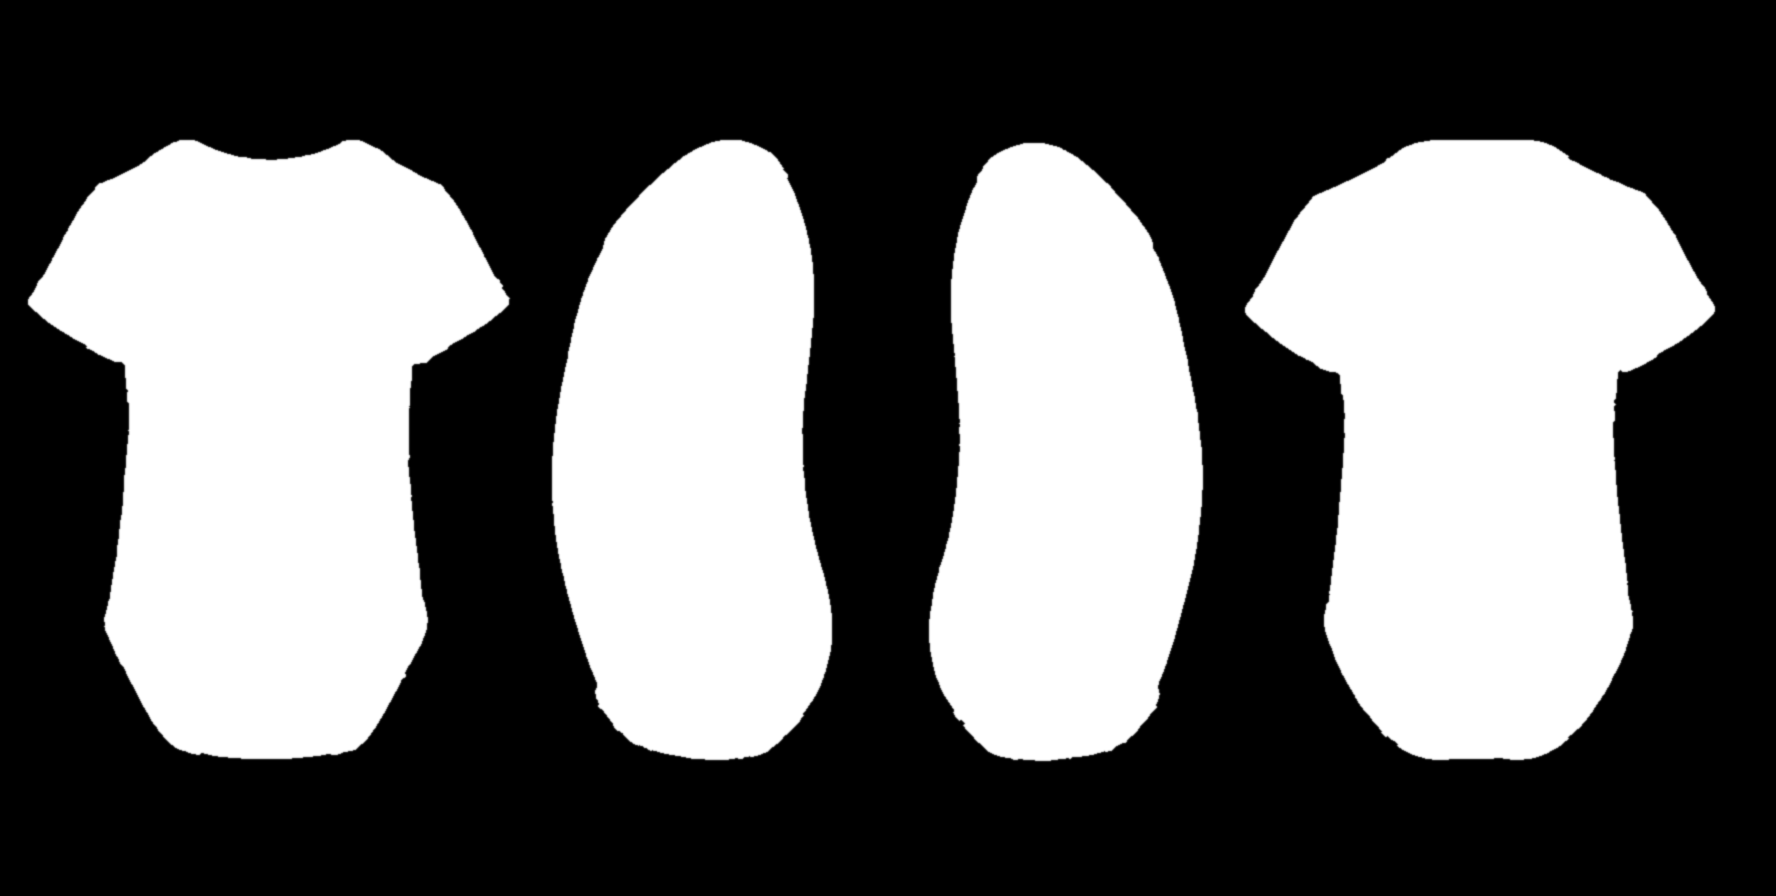
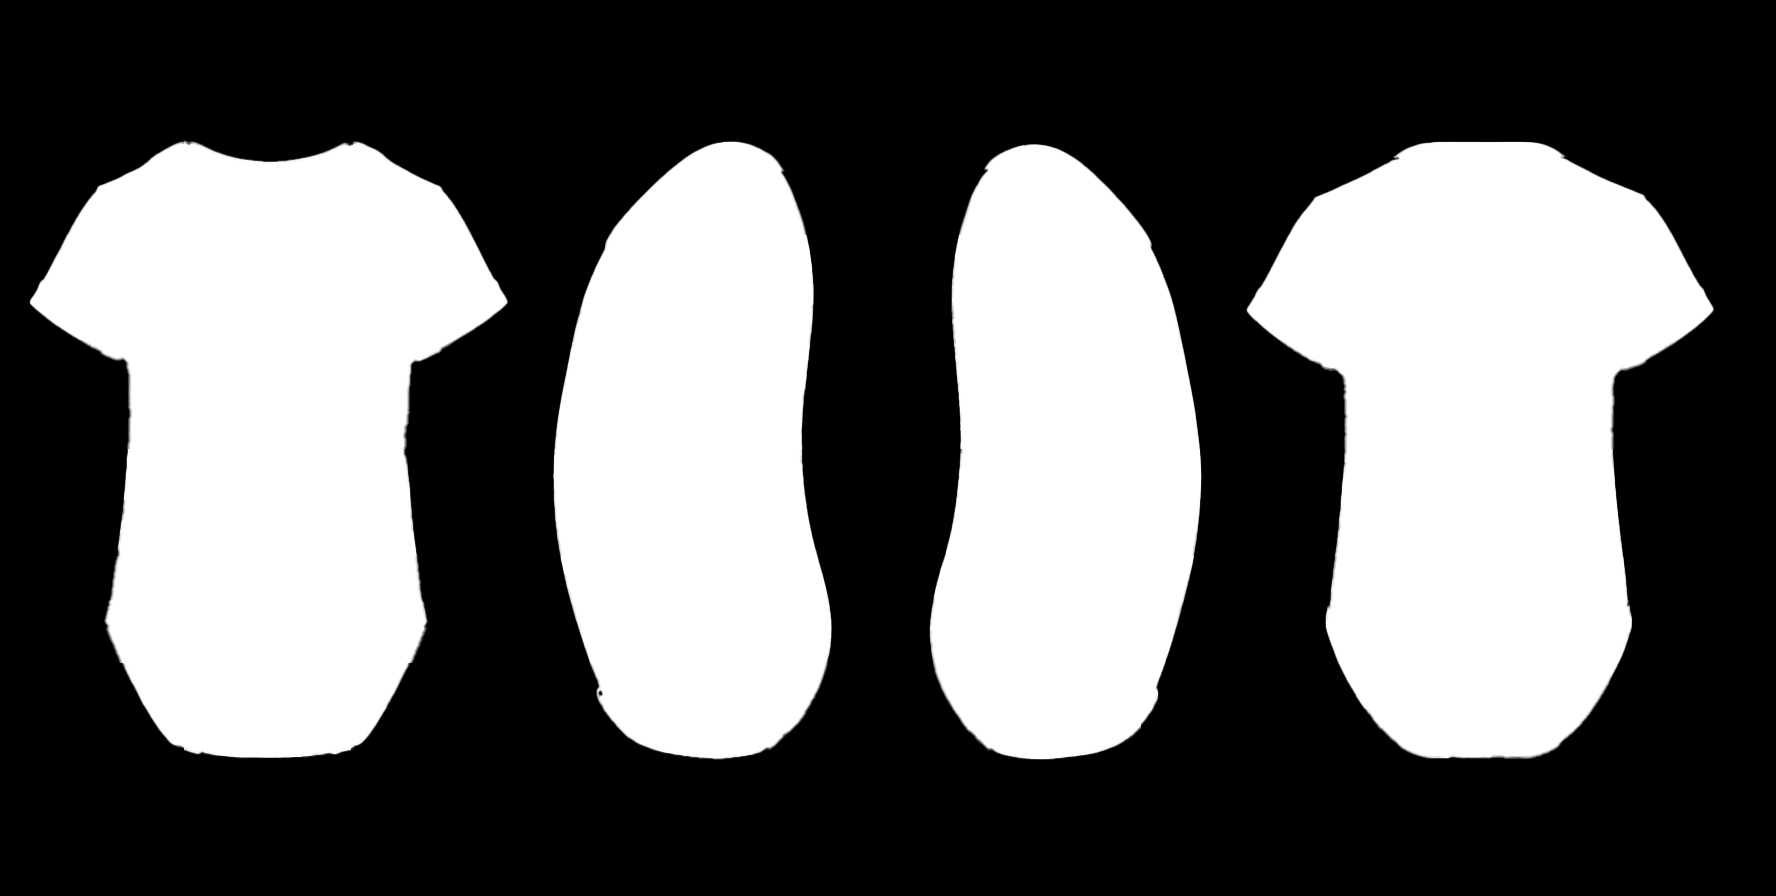
Konfigurator: neue freigestellte Fotos für T-Shirt, Sportshirt, Arbeitsjacke, Babybody und Tasse [hochladen]
Ohne Bodenschatten, Maske direkt aus der Transparenz; Werkzeug aus_png.py
übernimmt freigestellte PNGs. Bilder mit Versionsnummer, damit Browser die
neuen laden.

Claude-Session: https://claude.ai/code/session_01VgMNm2JQ5rEuMZ6iNr5NQ8

diff --git a/website/konfigurator/konfig.js b/website/konfigurator/konfig.js
@@ -63,6 +63,7 @@
   };
 
   /* ---------- Farben ---------- */
+  const IMGV = 2;   // bei neuen Produktfotos hochzählen (Browser-Zwischenspeicher)
   const COLORS = {
     weiss: ['Weiß', 'Hvid', 'White', '#ffffff'], natur: ['Natur', 'Natur', 'Natural', '#efe6d2'], sand: ['Sand', 'Sand', 'Sand', '#d6c4a1'],
     grau: ['Grau meliert', 'Gråmeleret', 'Heather grey', '#a3a5a8'], anthrazit: ['Anthrazit', 'Antracit', 'Charcoal', '#3c3e42'], schwarz: ['Schwarz', 'Sort', 'Black', '#151515'],
@@ -323,7 +324,7 @@
       const t = T(), p = S.prod;
       secProd.replaceChildren(el('h4', {}, t.product, el('b', {}, L(p.name, lang))), el('div', { class: 'wfk-prods' },
         PRODUCTS.map((q) => el('button', { type: 'button', class: q.id === p.id ? 'on' : '', title: L(q.name, lang), onclick: () => choose(q.id) },
-          el('img', { alt: '', src: base + 'img/' + q.id + '-t.jpg', loading: 'lazy' }), L(q.name, lang)))));
+          el('img', { alt: '', src: base + 'img/' + q.id + '-t.jpg?v=' + IMGV, loading: 'lazy' }), L(q.name, lang)))));
       const cname = COLORS[S.color] ? L(COLORS[S.color], lang) : S.hex.toUpperCase();
       secColor.replaceChildren(el('h4', {}, t.color, el('b', {}, cname)), el('div', { class: 'wfk-sw' },
         p.colors.map((c) => el('button', { type: 'button', title: L(COLORS[c], lang), 'aria-label': L(COLORS[c], lang), class: c === S.color ? 'on' : '', style: 'background:' + COLORS[c][3], onclick: () => setColor(c) }))),
@@ -383,7 +384,7 @@
       stage.classList.add('loading');
       try {
         if (!prepared.has(p.id)) {
-          const [img, mask] = await Promise.all([loadImg(base + 'img/' + p.id + '.jpg'), loadImg(base + 'img/' + p.id + '-m.png')]);
+          const [img, mask] = await Promise.all([loadImg(base + 'img/' + p.id + '.jpg?v=' + IMGV), loadImg(base + 'img/' + p.id + '-m.png?v=' + IMGV)]);
           await new Promise((r) => setTimeout(r, 16));
           prepared.set(p.id, prepare(img, mask, false, p.views === 'mug' ? 3 : 4));
         }

diff --git a/website/index.html b/website/index.html
@@ -3889,9 +3889,9 @@ function kfSet(mode) {
     window.scrollTo({ top: el.getBoundingClientRect().top + window.scrollY - off, behavior: 'smooth' }); };
   requestAnimationFrame(jump);
   if (mode !== 'tool' || kfLoad) return;
-  if (!document.getElementById('kfCss')) { const l = document.createElement('link'); l.id = 'kfCss'; l.rel = 'stylesheet'; l.href = 'konfigurator/konfig.css?v=10'; document.head.append(l); }
+  if (!document.getElementById('kfCss')) { const l = document.createElement('link'); l.id = 'kfCss'; l.rel = 'stylesheet'; l.href = 'konfigurator/konfig.css?v=11'; document.head.append(l); }
   kfLoad = (async () => {
-    if (!window.WFKonfig) await kfScript('konfigurator/konfig.js?v=10');
+    if (!window.WFKonfig) await kfScript('konfigurator/konfig.js?v=11');
     const holder = document.createElement('div');
     box.replaceChildren(holder);
     window.__wfK = await WFKonfig.mount(holder, { mode: 'kunde', lang: currentLang, base: 'konfigurator/', onChange: (k) => {

diff --git a/auftraege/assets/konfig-app.js b/auftraege/assets/konfig-app.js
@@ -12,8 +12,8 @@ let loading = null;
 function loadKonfig() {
   if (window.WFKonfig) return Promise.resolve();
   if (loading) return loading;
-  if (!document.getElementById('wfkCss')) document.head.append(h('link', { id: 'wfkCss', rel: 'stylesheet', href: KBASE + 'konfig.css?v=10' }));
-  loading = new Promise((ok, bad) => { const s = document.createElement('script'); s.src = KBASE + 'konfig.js?v=10'; s.onload = ok; s.onerror = () => { loading = null; bad(new Error(t('konfig_err'))); }; document.head.append(s); });
+  if (!document.getElementById('wfkCss')) document.head.append(h('link', { id: 'wfkCss', rel: 'stylesheet', href: KBASE + 'konfig.css?v=11' }));
+  loading = new Promise((ok, bad) => { const s = document.createElement('script'); s.src = KBASE + 'konfig.js?v=11'; s.onload = ok; s.onerror = () => { loading = null; bad(new Error(t('konfig_err'))); }; document.head.append(s); });
   return loading;
 }
 

diff --git a/tools/konfigurator/aus_png.py b/tools/konfigurator/aus_png.py
@@ -1,0 +1,18 @@
+"""Fertig freigestelltes PNG (transparenter Hintergrund, 1776 x 896) für den Konfigurator übernehmen.
+
+Aufruf:  python3 aus_png.py <freigestellt.png|.webp> <ziel-ohne-endung> [hintergrund-grau 0-255]
+Ergebnis: <ziel>.jpg (Produkt auf ruhigem, schattenlosem Grau) und <ziel>-m.png (Maske = Transparenz).
+"""
+import sys
+import numpy as np
+from PIL import Image
+
+src, dst = sys.argv[1], sys.argv[2]
+grey = int(sys.argv[3]) if len(sys.argv) > 3 else 218
+im = Image.open(src).convert('RGBA')
+a = np.asarray(im).astype(np.float32)
+alpha = a[..., 3:4] / 255.0
+rgb = a[..., :3] * alpha + grey * (1 - alpha)
+Image.fromarray(rgb.round().clip(0, 255).astype(np.uint8)).save(dst + '.jpg', quality=90)
+Image.fromarray(a[..., 3].astype(np.uint8), 'L').save(dst + '-m.png', optimize=True)
+print(dst, im.size)
